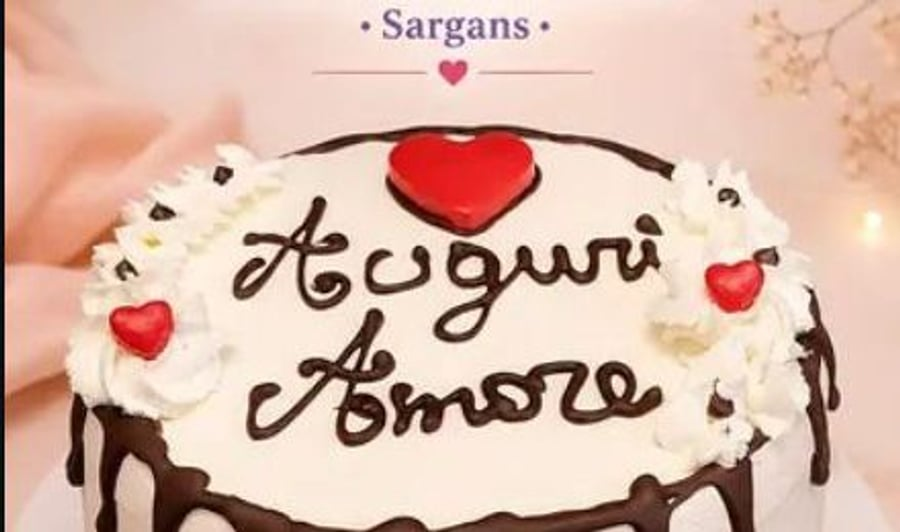
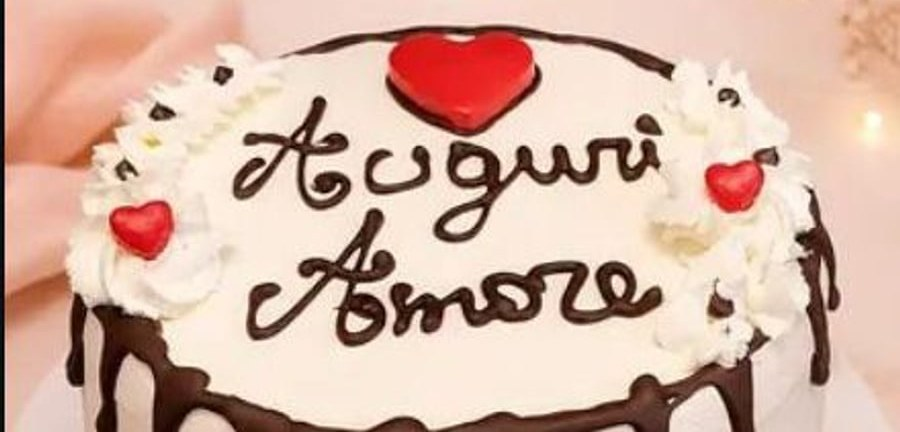
Fix cropped watermark bleed on gallery photos, richen pastel palette
Crop out Manuela's logo/caption overlay text that was bleeding into
the top of the hero and gallery photos. Deepen the blush palette,
add a dusty-blue backdrop behind the hero image, and gold ornamental
dividers so the page reads less flat/white while staying pastel.

Claude-Session: https://claude.ai/code/session_01WCMWzeXy6h9st65AXhWg3V

diff --git a/manu-cakes/src/index.css b/manu-cakes/src/index.css
@@ -1,8 +1,8 @@
 @import 'tailwindcss';
 
 @theme {
-  --color-blush: #fbeef0;
-  --color-blush-deep: #f3d8dd;
+  --color-blush: #f7dde3;
+  --color-blush-deep: #eebfc9;
   --color-cream: #fdf9f4;
   --color-plum: #3a2630;
   --color-plum-dim: #6e5560;
@@ -11,6 +11,8 @@
   --color-gold: #c49a6c;
   --color-gold-dim: #8f7154;
   --color-sage: #9bab8f;
+  --color-dusk: #7e93a3;
+  --color-dusk-deep: #5e7383;
 
   --font-display: 'Playfair Display', Georgia, 'Times New Roman', serif;
   --font-body: 'Mulish', 'Helvetica Neue', Arial, sans-serif;
@@ -110,6 +112,23 @@ body {
 .reveal.is-visible {
   opacity: 1;
   transform: translateY(0);
+}
+
+.ornament-divider {
+  display: flex;
+  align-items: center;
+  justify-content: center;
+  gap: 0.75rem;
+  color: var(--color-gold);
+}
+
+.ornament-divider::before,
+.ornament-divider::after {
+  content: '';
+  height: 1px;
+  width: 2.5rem;
+  background: var(--color-gold);
+  opacity: 0.6;
 }
 
 @media (prefers-reduced-motion: reduce) {

diff --git a/manu-cakes/src/components/About.tsx b/manu-cakes/src/components/About.tsx
@@ -4,9 +4,10 @@ export default function About() {
   const { t } = useLanguage()
 
   return (
-    <section id="about" className="bg-blush px-6 py-28 sm:px-10">
+    <section id="about" className="bg-gradient-to-b from-blush to-blush-deep px-6 py-28 sm:px-10">
       <div className="mx-auto max-w-3xl text-center">
         <p className="eyebrow reveal mb-4">{t.about.eyebrow}</p>
+        <div className="ornament-divider reveal mb-6 text-xs tracking-[0.3em] uppercase">&#10022;</div>
         <h2 className="reveal font-display text-3xl text-plum sm:text-4xl">
           {t.about.titleStart} <span className="gold-text italic">{t.about.titleEmphasis}</span>
           {t.about.titleEnd}

diff --git a/manu-cakes/src/components/Hero.tsx b/manu-cakes/src/components/Hero.tsx
@@ -24,8 +24,9 @@ export default function Hero() {
           </div>
         </div>
 
-        <div className="reveal is-visible">
-          <div className="overflow-hidden rounded-[2rem] border border-blush-deep shadow-xl shadow-rose/10">
+        <div className="reveal is-visible relative">
+          <div className="absolute -inset-4 -z-10 rounded-[2.5rem] bg-dusk/70 sm:-inset-6" />
+          <div className="overflow-hidden rounded-[2rem] border-2 border-gold/40 shadow-xl shadow-plum/20">
             <img src={heroCake} alt={t.hero.heroImageAlt} className="w-full object-cover" />
           </div>
         </div>

diff --git a/manu-cakes/src/components/Gallery.tsx b/manu-cakes/src/components/Gallery.tsx
@@ -26,9 +26,9 @@ export default function Gallery() {
           {t.gallery.pieces.map((title, i) => (
             <figure
               key={title}
-              className="reveal group overflow-hidden rounded-2xl border border-blush-deep bg-blush"
+              className="reveal group overflow-hidden rounded-2xl border border-gold/30 bg-blush shadow-sm shadow-plum/5"
             >
-              <div className="aspect-square overflow-hidden">
+              <div className="aspect-[4/5] overflow-hidden">
                 <img
                   src={images[i]}
                   alt={title}

diff --git a/manu-cakes/src/components/Services.tsx b/manu-cakes/src/components/Services.tsx
@@ -11,6 +11,7 @@ export default function Services() {
           <h2 className="font-display text-3xl text-plum sm:text-4xl">
             {t.services.titleStart} <span className="gold-text italic">{t.services.titleEmphasis}</span>
           </h2>
+          <div className="ornament-divider mt-6 text-xs">&#10022;</div>
         </div>
 
         <div className="mt-14 grid gap-5 sm:grid-cols-2 lg:grid-cols-3">
